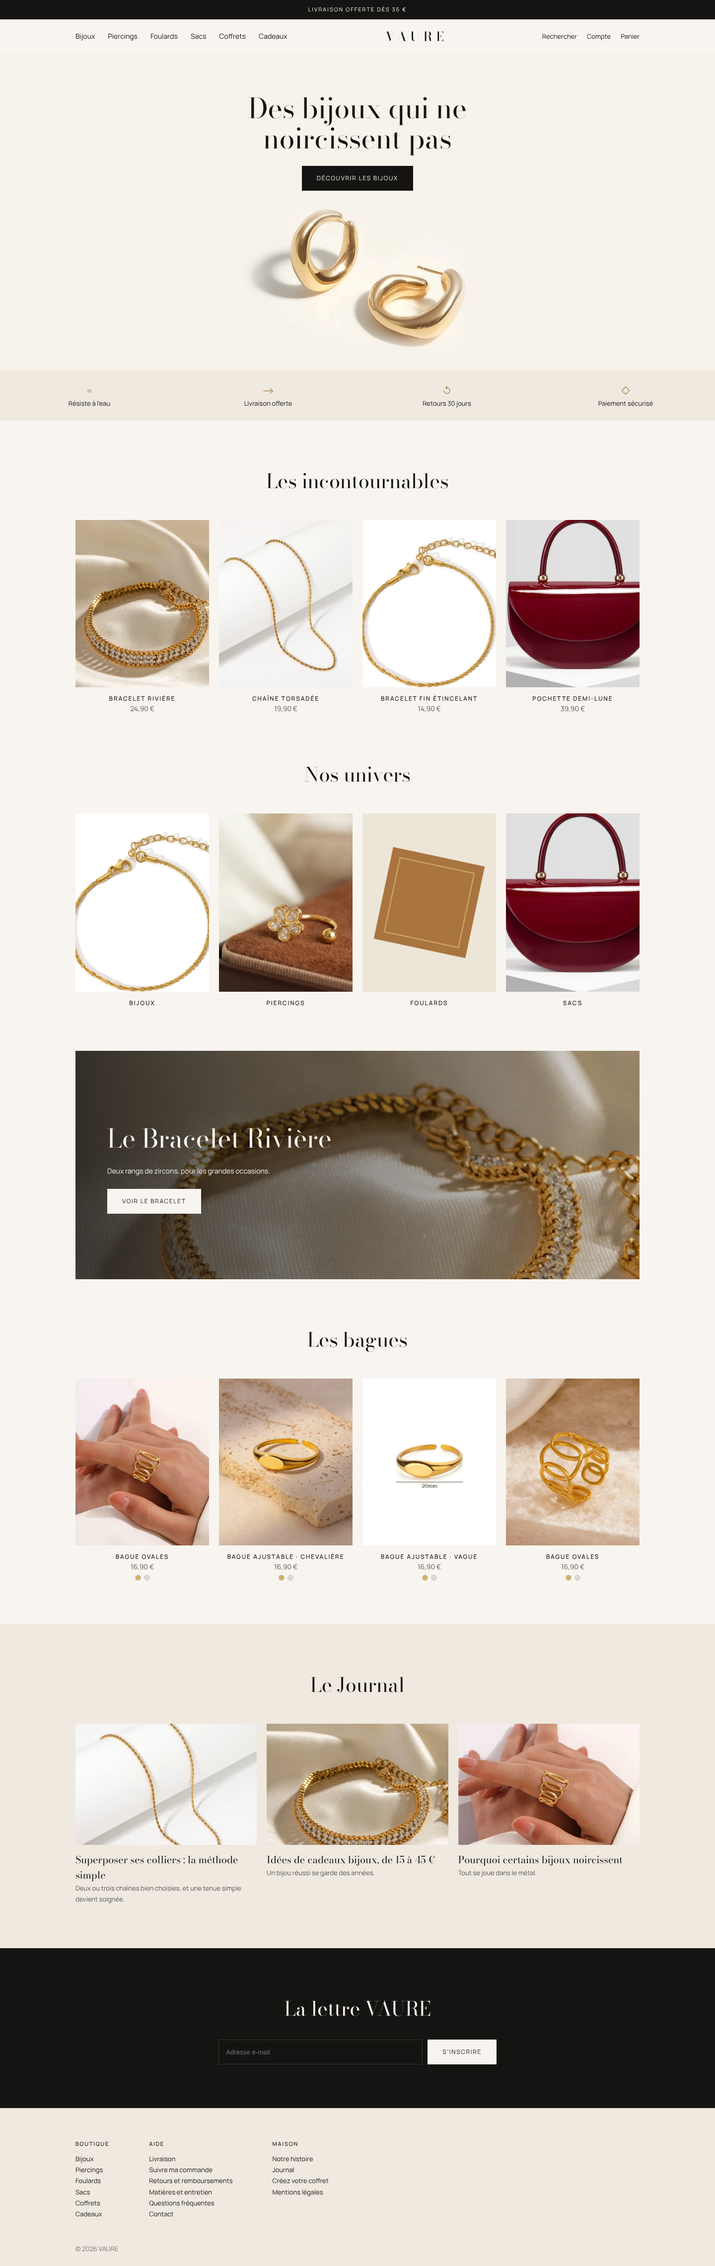
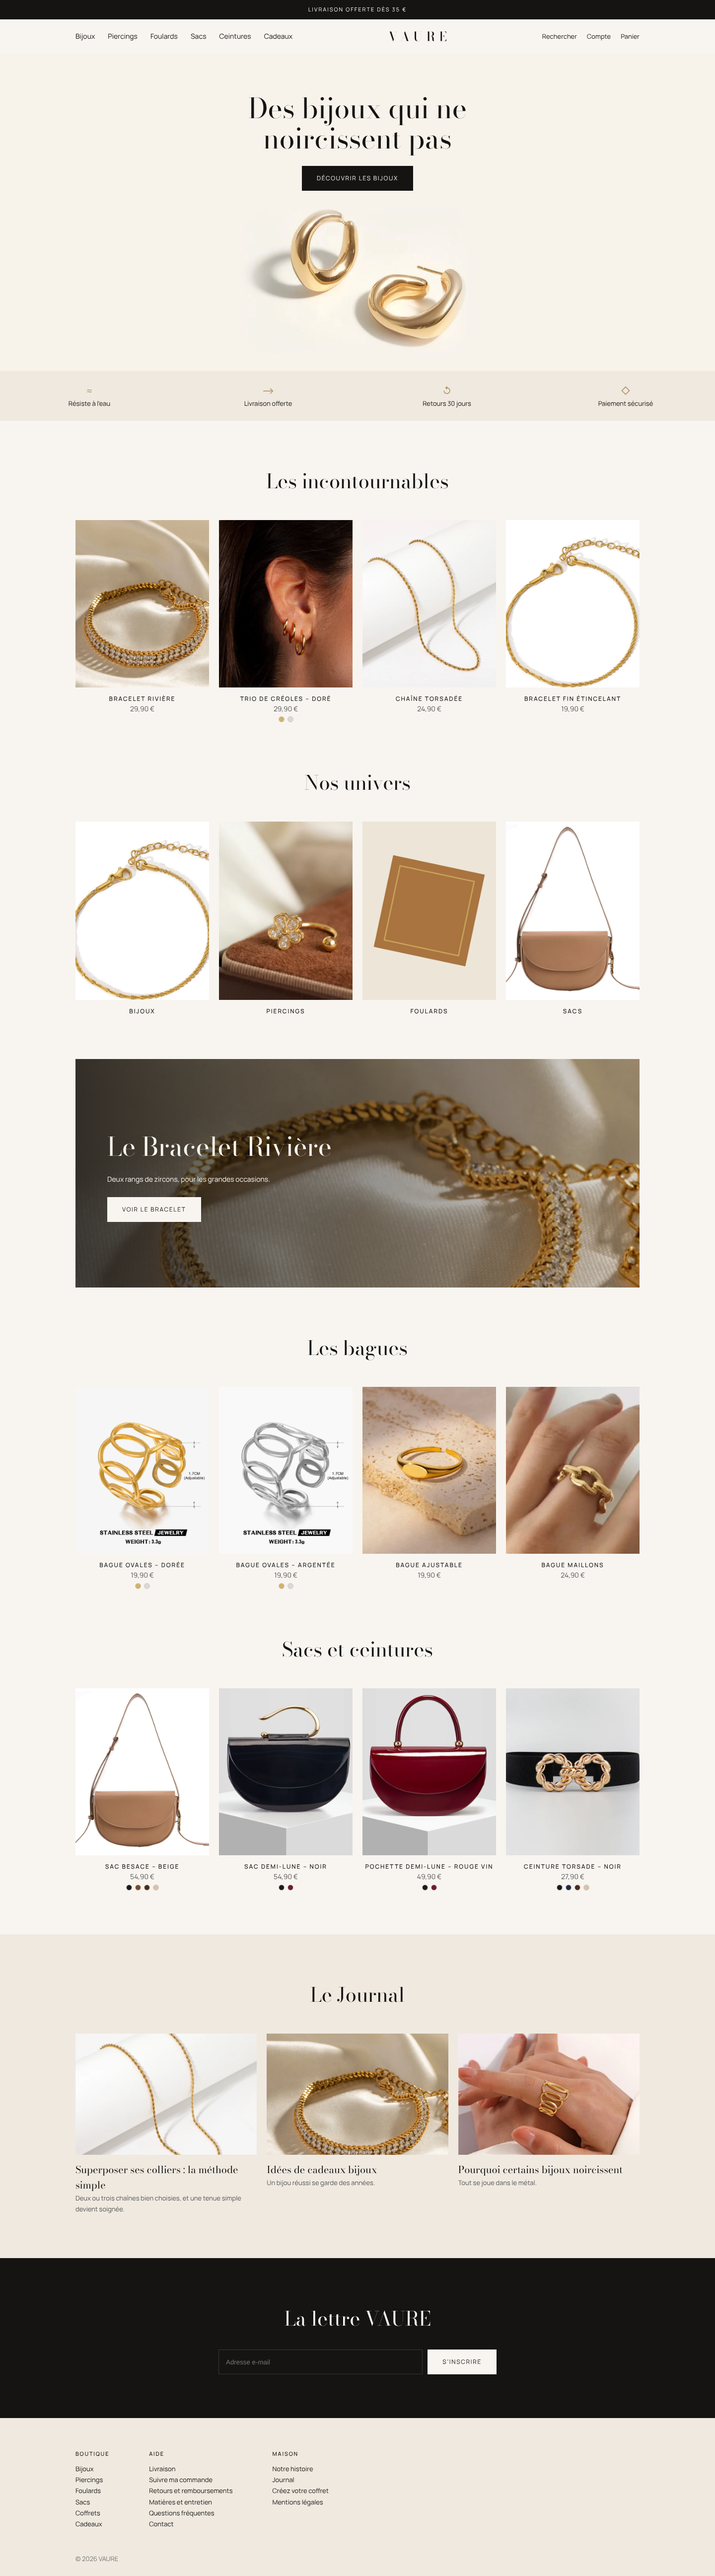
VAURE: aperçu de l'accueil mis à jour (prix, couleurs, sacs)
Claude-Session: https://claude.ai/code/session_013s4U6wyjEEiqqasJXAgjhq

diff --git a/vaure/docs/apercu/apercu-accueil.html b/vaure/docs/apercu/apercu-accueil.html
@@ -25,21 +25,24 @@ footer{background:var(--be);padding:64px 0 24px;font-size:13px}footer .cols{disp
 .grid{grid-template-columns:1fr 1fr}.gar{font-size:11px}.banner{padding:0 24px;height:420px}.banner h2{font-size:36px}footer .cols{flex-direction:column;gap:28px}.jr .grid{grid-template-columns:1fr}section{padding:64px 0}}
 </style></head><body>
 <div class="ann">Livraison offerte dès 35 €</div>
-<div class="w"><header><nav><span>Bijoux</span><span>Piercings</span><span>Foulards</span><span>Sacs</span><span>Coffrets</span><span>Cadeaux</span></nav><div class="ic" style="display:none">☰</div><img src="https://cdn.shopify.com/s/files/1/1007/2742/3358/files/vaure-logo-noir.png?width=400" alt="VAURE"><div class="ic"><span>Rechercher</span><span>Compte</span>Panier</div></header></div>
+<div class="w"><header><nav><span>Bijoux</span><span>Piercings</span><span>Foulards</span><span>Sacs</span><span>Ceintures</span><span>Cadeaux</span></nav><div class="ic" style="display:none">☰</div><img src="https://cdn.shopify.com/s/files/1/1007/2742/3358/files/vaure-logo-noir.png?width=400" alt="VAURE"><div class="ic"><span>Rechercher</span><span>Compte</span>Panier</div></header></div>
 <div class="hero"><div class="w"><h1>Des bijoux qui ne<br>noircissent pas</h1><a class="btn">Découvrir les bijoux</a></div></div>
 <div class="gar"><div><b>≈</b>Résiste à l’eau</div><div><b>⟶</b>Livraison offerte</div><div><b>↺</b>Retours 30 jours</div><div><b>◇</b>Paiement sécurisé</div></div>
 <section><div class="w"><h2>Les incontournables</h2><div class="grid" id="inc"></div></div></section>
 <section style="padding-top:0"><div class="w"><h2>Nos univers</h2><div class="grid uni" id="uni"></div></div></section>
 <div class="w"><div class="banner"><h2>Le Bracelet Rivière</h2><p style="margin-top:10px">Deux rangs de zircons, pour les grandes occasions.</p><a class="btn">Voir le bracelet</a></div></div>
 <section><div class="w"><h2>Les bagues</h2><div class="grid" id="bag"></div></div></section>
+<section style="padding-top:0"><div class="w"><h2>Sacs et ceintures</h2><div class="grid" id="sac"></div></div></section>
 <section style="background:var(--be)"><div class="w jr"><h2>Le Journal</h2><div class="grid" style="grid-template-columns:repeat(3,1fr)" id="jr"></div></div></section>
 <section class="nl"><h2 style="margin-bottom:28px">La lettre VAURE</h2><form><input placeholder="Adresse e-mail"><a class="btn">S’inscrire</a></form></section>
 <footer><div class="w"><div class="cols"><div><h6>Boutique</h6>Bijoux<br>Piercings<br>Foulards<br>Sacs<br>Coffrets<br>Cadeaux</div><div><h6>Aide</h6>Livraison<br>Suivre ma commande<br>Retours et remboursements<br>Matières et entretien<br>Questions fréquentes<br>Contact</div><div><h6>Maison</h6>Notre histoire<br>Journal<br>Créez votre coffret<br>Mentions légales</div></div><p style="margin-top:48px;color:#777">© 2026 VAURE</p></div></footer>
 <script>
 const C='https://cdn.shopify.com/s/files/1/1007/2742/3358/files/';
-const card=(img,n,p,d)=>`<div class="card"><div class="im" style="background-image:url(${C+img}?width=800)"></div><h6>${n}</h6><p>${p}</p>${d?'<div class="dots"><i style="background:#D4B06A"></i><i style="background:#D9D9D9"></i></div>':''}</div>`;
-inc.innerHTML=[['bracelet-double-rang.png','Bracelet Rivière','24,90 €'],['9be060a6-5da0-400c-a6c6-19fea850cfcb.jpg','Chaîne Torsadée','19,90 €'],['bracelet-fin-etincelant.png','Bracelet Fin Étincelant','14,90 €'],['pochette-demi-lune.png','Pochette Demi-Lune','39,90 €']].map(a=>card(...a)).join('');
-bag.innerHTML=[['92e92f44-f8de-438e-9c32-1edf3233eeac.jpg','Bague Ovales','16,90 €',1],['f1e88d1c-96bd-4343-8d6c-4bedb47ad335.jpg','Bague Ajustable · Chevalière','16,90 €',1],['ec68ca0a-37b5-4f65-9157-8623bf97836c.jpg','Bague Ajustable · Vague','16,90 €',1],['350c6b59-ca19-4d77-ba9f-b7956932b493.jpg','Bague Ovales','16,90 €',1]].map(a=>card(...a)).join('');
-uni.innerHTML=[['bracelet-fin-etincelant.png','Bijoux'],['piercing-nez-fleur.png','Piercings'],['foulard-satin--caramel.png','Foulards'],['pochette-demi-lune.png','Sacs']].map(([i,n])=>`<div class="card"><div class="im" style="background-image:url(${C+i}?width=800)"></div><h6>${n}</h6></div>`).join('');
-jr.innerHTML=[['9be060a6-5da0-400c-a6c6-19fea850cfcb.jpg','Superposer ses colliers : la méthode simple','Deux ou trois chaînes bien choisies, et une tenue simple devient soignée.'],['bracelet-double-rang.png','Idées de cadeaux bijoux, de 15 à 45 €','Un bijou réussi se garde des années.'],['92e92f44-f8de-438e-9c32-1edf3233eeac.jpg','Pourquoi certains bijoux noircissent','Tout se joue dans le métal.']].map(([i,t,d])=>`<div><div class="im" style="background:url(${C+i}?width=800) center/cover"></div><h4>${t}</h4><p>${d}</p></div>`).join('');
+const card=(img,n,p,d)=>`<div class="card"><div class="im" style="background-image:url(${C+img}?width=800)"></div><h6>${n}</h6><p>${p}</p>${d?'<div class="dots">'+d.map(c=>`<i style="background:${c}"></i>`).join('')+'</div>':''}</div>`;
+const DA=['#D4B06A','#D9D9D9'];
+inc.innerHTML=[['bracelet-double-rang.png','Bracelet Rivière','29,90 €'],['28c09661-b4df-4557-b754-a7a3e40d0106.jpg','Trio de Créoles – Doré','29,90 €',DA],['9be060a6-5da0-400c-a6c6-19fea850cfcb.jpg','Chaîne Torsadée','24,90 €'],['bracelet-fin-etincelant.png','Bracelet Fin Étincelant','19,90 €']].map(a=>card(...a)).join('');
+bag.innerHTML=[['b57ca676-80d3-49ef-8f99-d0ccdfd2c174.jpg','Bague Ovales – Dorée','19,90 €',DA],['467da876-ab7d-4cb1-b75d-9af1451c6c77.jpg','Bague Ovales – Argentée','19,90 €',DA],['f1e88d1c-96bd-4343-8d6c-4bedb47ad335.jpg','Bague Ajustable','19,90 €'],['f1dd74f3-4f0f-4c57-92f9-becdf18071dc.jpg','Bague Maillons','24,90 €']].map(a=>card(...a)).join('');
+sac.innerHTML=[['cafa6944-75df-4c35-a89f-73259a66fd96.jpg','Sac Besace – Beige','54,90 €',['#1d1a16','#7a4a2a','#4a2c1d','#d8c3a5']],['77ce40c3-9c33-4b24-a60e-c0268f096297.jpg','Sac Demi-Lune – Noir','54,90 €',['#1d1a16','#6b1e2a']],['487ee52c-4d73-4854-845f-f9e7066831d7.jpg','Pochette Demi-Lune – Rouge vin','49,90 €',['#1d1a16','#6b1e2a']],['034c6a9e-723b-4746-8da4-eb0ee8e5cd4a.jpg','Ceinture Torsade – Noir','27,90 €',['#1d1a16','#1f2a44','#4a2c1d','#d8c3a5']]].map(a=>card(...a)).join('');
+uni.innerHTML=[['bracelet-fin-etincelant.png','Bijoux'],['piercing-nez-fleur.png','Piercings'],['foulard-satin--caramel.png','Foulards'],['cafa6944-75df-4c35-a89f-73259a66fd96.jpg','Sacs']].map(([i,n])=>`<div class="card"><div class="im" style="background-image:url(${C+i}?width=800)"></div><h6>${n}</h6></div>`).join('');
+jr.innerHTML=[['9be060a6-5da0-400c-a6c6-19fea850cfcb.jpg','Superposer ses colliers : la méthode simple','Deux ou trois chaînes bien choisies, et une tenue simple devient soignée.'],['bracelet-double-rang.png','Idées de cadeaux bijoux','Un bijou réussi se garde des années.'],['92e92f44-f8de-438e-9c32-1edf3233eeac.jpg','Pourquoi certains bijoux noircissent','Tout se joue dans le métal.']].map(([i,t,d])=>`<div><div class="im" style="background:url(${C+i}?width=800) center/cover"></div><h4>${t}</h4><p>${d}</p></div>`).join('');
 </script></body></html>
